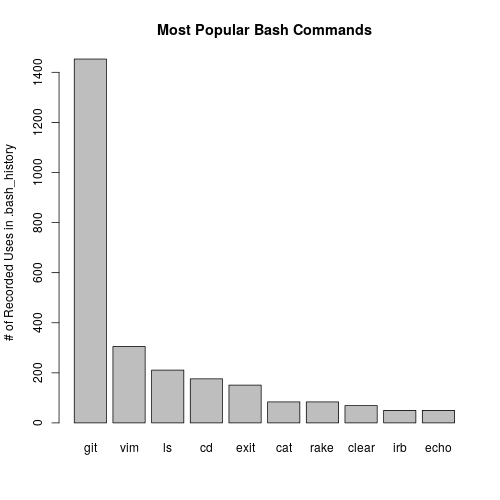
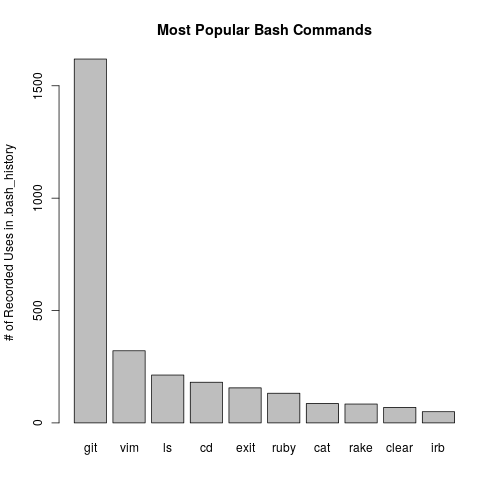
Agglomerate Script Commands by Interpreter
Closes #2

diff --git a/analyze.rb b/analyze.rb
@@ -5,6 +5,28 @@ require 'json'
 data = {}
 aliases = {}
 
+# replace *.rb with ruby etc.
+def sub_scripts(command)
+  if command.start_with? './'
+    ext = command[/.+\.([A-Za-z]+)$/,1]
+    case ext
+    when 'rb'
+      'ruby'
+    when 'py'
+      'python'
+    when 'sh'
+      'bash'
+    when 'r'
+      'Rscript'
+    else
+      ext
+    end
+  else
+    command
+  end
+end
+
+# load bash aliases for substitution
 File.readlines('/home/caleb/.bash_aliases').each do |line|
   # TODO: might be nil if no match found, log this line
   ali, command = line.match(/alias ([A-Za-z0-9]{1,})='([A-Za-z0-9\/]{1,})[\s']/i).captures
@@ -17,6 +39,7 @@ Dir.glob('data/*').each do |file|
 
     # Substitute Aliases
     command = aliases[command] unless aliases[command].nil?
+    command = sub_scripts(command)
 
     if data[command].nil?
       data[command] = 1
